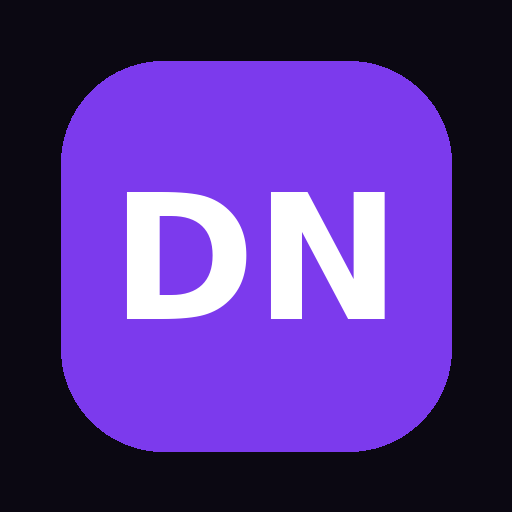
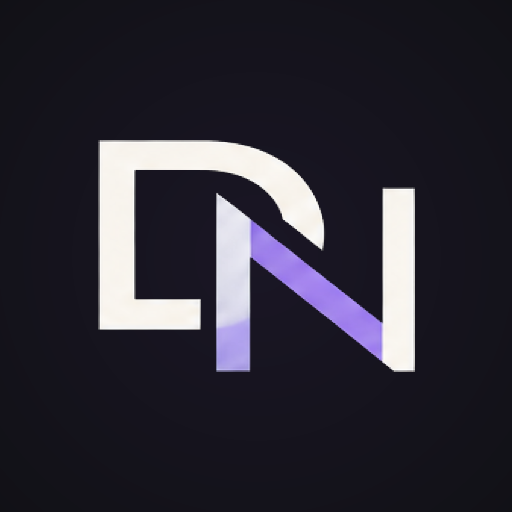
Refactor code structure for improved readability and maintainability

diff --git a/apps/user-web/src/pages/clubs.jsx b/apps/user-web/src/pages/clubs.jsx
@@ -14,7 +14,7 @@ export function ClubDetails() {
   return (
     <div className="pb-24">
       <Async q={q}>{(c) => (<>
-        <div className="relative"><Img src={c.images[0]} name={c.name} className="h-56 w-full" />
+        <div className="relative"><Img src={c.images?.[0]} name={c.name} className="h-56 w-full" />
           <button onClick={() => nav(-1)} className="absolute left-3 top-3 rounded-full bg-black/50 px-3 py-1 text-white">‹</button></div>
         <div className="space-y-4 p-4">
           <div className="flex items-start justify-between"><div><h1 className="text-xl font-bold">{c.name}</h1><p className="text-xs text-muted">{c.address}</p></div>
@@ -28,10 +28,10 @@ export function ClubDetails() {
           {c.about && <div><h3 className="mb-1 text-sm font-semibold">About</h3><p className="text-sm text-muted">{c.about}</p></div>}
           <div className="flex justify-between text-sm"><span className="text-muted">Music</span><span>{c.music.join(' · ') || '—'}</span></div>
           <div className="flex justify-between text-sm"><span className="text-muted">Dress code</span><span>{c.dressCode || '—'}</span></div>
-          {c.events.length > 0 && <div><h3 className="mb-2 text-sm font-semibold">Upcoming events</h3><div className="space-y-2">{c.events.slice(0, 3).map((e) => (
+          {c.events?.length > 0 && <div><h3 className="mb-2 text-sm font-semibold">Upcoming events</h3><div className="space-y-2">{c.events.slice(0, 3).map((e) => (
             <Card key={e.id} className="flex justify-between p-3 text-sm"><div><p className="font-medium">{e.title}</p><p className="text-xs text-muted">{e.djName}</p></div><p className="text-xs text-muted">{fmtDate(e.date)}<br />{e.startTime}</p></Card>))}</div></div>}
         </div>
-        <div className="fixed inset-x-0 bottom-0 mx-auto max-w-md border-t border-line bg-bg p-4"><Button onClick={() => nav(`/clubs/${c.id}/events`)}>View Offers</Button></div>
+        <div className="glass-bar fixed inset-x-0 bottom-0 z-20 mx-auto w-full max-w-md border-t border-line p-4 pb-[calc(1rem+env(safe-area-inset-bottom))]"><Button onClick={() => nav(`/clubs/${c.id}/offers`)}>Compare Offers</Button></div>
       </>)}</Async>
     </div>
   );
@@ -69,20 +69,23 @@ export function ClubOffers() {
   };
   return (
     <div>
-      <Header back title="Offers at this club" sub={sp.get('date') ? `${fmtDate(sp.get('date'))} · Expand offers to compare` : 'Expand offers to compare'} />
+      <Header back title="Offers at this club" sub={sp.get('date') ? `${fmtDate(sp.get('date'))} · Compare promoter offers` : 'Compare promoter offers by date'} />
       <div className="p-4"><Select label="Sort" value={sort} onChange={(e) => setSort(e.target.value)} options={[{ value: 'recommended', label: 'Recommended' }, { value: 'price', label: 'Price: low to high' }]} /></div>
-      <Async q={q} empty={<EmptyState title="No offers available" text="Promoters haven't listed offers for this event yet." />}>{(list) => <div className="space-y-3 px-4 pb-6">{list.map((o) => {
-        const open = expanded.includes(o.id);
-        return <Card key={o.id} className="overflow-hidden p-0"><button type="button" aria-expanded={open} onClick={() => setExpanded((old) => open ? old.filter((x) => x !== o.id) : [...old, o.id])} className="flex w-full items-center gap-3 p-4 text-left">
-          <Img src={o.club.images?.[0]} name={o.club.name} className="h-14 w-14 shrink-0 rounded-xl" />
-          <div className="min-w-0 flex-1"><p className="text-xs text-muted">{o.promoter.brand}</p><p className="font-semibold">{o.offerType} · {o.entryTypes?.length ? o.entryTypes.join(' & ') : o.entryType}</p>{o.event?.title && <p className="truncate text-xs text-muted">{o.event.title}{o.event.startTime ? ` · ${o.event.startTime}` : ''}</p>}<p className="text-xs text-muted">{o.entryFrom || '9:00 PM'}–{o.entryBefore}{o.limitedSlots ? ' · Limited slots' : ''}</p></div>
-          <div className="text-right"><p className="font-bold">{formatINR(o.price)}</p><p className="text-xs text-brand">{open ? 'Hide' : 'Details'}</p></div>
-        </button>{open && <div className="space-y-3 border-t border-line p-4">
-          {o.inclusions?.length > 0 && <div><p className="mb-1 text-xs font-semibold text-muted">Included perks</p><ul className="space-y-1 text-sm">{o.inclusions.map((perk) => <li key={perk} className="flex gap-2"><Check size={14} className="mt-0.5 shrink-0 text-ok" />{perk}</li>)}</ul></div>}
-          {o.terms && <div><p className="mb-1 text-xs font-semibold text-muted">Terms</p><p className="text-sm text-muted">{o.terms}</p></div>}
-          <Button onClick={() => book(o)}>Get Guestlist Entry</Button>
-        </div>}</Card>;
-      })}</div>}</Async>
+      <Async q={q} empty={<EmptyState title="No offers available" text="Promoters haven't listed offers for this event yet." />}>{(list) => {
+        const groups = [...list.reduce((map, offer) => { const date = offer.date.slice(0, 10); const group = map.get(date) || []; group.push(offer); map.set(date, group); return map; }, new Map()).entries()];
+        return <div className="space-y-6 px-4 pb-6">{groups.map(([date, offers]) => <section key={date} className="space-y-3"><h2 className="px-1 text-sm font-semibold text-muted">{fmtDate(date)} <span className="font-normal">· {offers.length} offer{offers.length === 1 ? '' : 's'}</span></h2>{offers.map((o) => {
+          const open = expanded.includes(o.id);
+          return <Card key={o.id} className="overflow-hidden p-0"><button type="button" aria-expanded={open} onClick={() => setExpanded((old) => open ? old.filter((x) => x !== o.id) : [...old, o.id])} className="flex w-full items-center gap-3 p-4 text-left">
+            <Img src={o.club.images?.[0]} name={o.club.name} className="h-14 w-14 shrink-0 rounded-xl" />
+            <div className="min-w-0 flex-1"><p className="text-xs text-muted">{o.promoter.brand}</p><p className="font-semibold">{o.offerType} · {o.entryTypes?.length ? o.entryTypes.join(' & ') : o.entryType}</p>{o.event?.title && <p className="truncate text-xs text-muted">{o.event.title}{o.event.startTime ? ` · ${o.event.startTime}` : ''}</p>}<p className="text-xs text-muted">{o.entryFrom || '9:00 PM'}–{o.entryBefore}{o.limitedSlots ? ' · Limited slots' : ''}</p></div>
+            <div className="text-right"><p className="font-bold">{formatINR(o.price)}</p><p className="text-xs text-brand">{open ? 'Hide' : 'Details'}</p></div>
+          </button>{open && <div className="space-y-3 border-t border-line p-4">
+            {o.inclusions?.length > 0 && <div><p className="mb-1 text-xs font-semibold text-muted">Included perks</p><ul className="space-y-1 text-sm">{o.inclusions.map((perk) => <li key={perk} className="flex gap-2"><Check size={14} className="mt-0.5 shrink-0 text-ok" />{perk}</li>)}</ul></div>}
+            {o.terms && <div><p className="mb-1 text-xs font-semibold text-muted">Terms</p><p className="text-sm text-muted">{o.terms}</p></div>}
+            <Button onClick={() => book(o)}>Get Guestlist Entry</Button>
+          </div>}</Card>;
+        })}</section>)}</div>;
+      }}</Async>
     </div>
   );
 }
@@ -122,7 +125,7 @@ export function OfferDetails() {
           <p className="font-semibold text-brand">{o.offerType} · {o.entryTypes?.length ? o.entryTypes.join(' & ') : o.entryType}</p><p className="mt-1 text-xs text-muted">{fmtDate(o.date)} · Entry {o.entryFrom || '9:00 PM'}–{o.entryBefore}{o.limitedSlots ? ' · Limited slots' : ''}</p></Card>
         {o.inclusions.length > 0 && <div><h3 className="mb-2 text-sm font-semibold">What's Included</h3><ul className="space-y-1.5 text-sm text-muted">{o.inclusions.map((x) => <li key={x} className="flex gap-2"><Check size={14} className="mt-0.5 text-ok" />{x}</li>)}</ul></div>}
         {o.terms && <div><h3 className="mb-2 text-sm font-semibold">Terms & Conditions</h3><p className="text-xs text-muted">{o.terms}</p></div>}
-        <div className="fixed inset-x-0 bottom-0 mx-auto max-w-md border-t border-line bg-bg p-4"><Button onClick={() => go(o)}>Get Guestlist Entry</Button></div>
+      <div className="glass-bar safe-bottom fixed inset-x-0 bottom-0 z-20 mx-auto w-full max-w-md border-t border-line p-4"><Button onClick={() => go(o)}>Get Guestlist Entry</Button></div>
       </div>)}</Async>
     </div>
   );

diff --git a/packages/ui/src/components.jsx b/packages/ui/src/components.jsx
@@ -1,6 +1,7 @@
 import { useState } from 'react';
 import { NavLink, useNavigate } from 'react-router-dom';
 import { Sun, Moon, ChevronLeft, Loader2, WifiOff, Inbox, X } from 'lucide-react';
+import brandWordmark from './assets/dusknyt-wordmark.png';
 
 export const cx = (...a) => a.filter(Boolean).join(' ');
 
@@ -22,12 +23,12 @@ export function ThemeToggle({ className }) {
 
 /* ---------- layout ---------- */
 export const Page = ({ children, className, wide, nav }) => (
-  <div className={cx('mx-auto min-h-screen', wide ? 'max-w-6xl' : 'max-w-md', nav && 'pb-24', className)}>{children}</div>
+  <div className={cx('app-shell mx-auto min-h-screen w-full', wide ? 'max-w-6xl' : 'max-w-md', nav && 'page-with-nav', className)}>{children}</div>
 );
 export function Header({ title, sub, back, right }) {
   const nav = useNavigate();
   return (
-    <div className="sticky top-0 z-20 flex items-center gap-3 border-b border-line bg-bg/90 px-4 py-3 backdrop-blur">
+    <div className="glass-bar sticky top-0 z-20 flex items-center gap-3 border-b border-line px-4 py-3">
       {back && <button onClick={() => nav(-1)} aria-label="Back"><ChevronLeft /></button>}
       <div className="min-w-0 flex-1">
         <h1 className="truncate text-lg font-semibold">{title}</h1>
@@ -39,10 +40,10 @@ export function Header({ title, sub, back, right }) {
 }
 export function BottomNav({ items }) {
   return (
-    <nav className="fixed inset-x-0 bottom-0 z-30 mx-auto flex max-w-md justify-around border-t border-line bg-bg/95 py-2 backdrop-blur">
+    <nav className="glass-bar safe-bottom fixed inset-x-0 bottom-0 z-30 mx-auto flex w-full max-w-md justify-around border-t border-line px-1 pt-2">
       {items.map(({ to, label, icon: Icon, end, badge }) => (
-        <NavLink key={to} to={to} end={end} className={({ isActive }) => cx('relative flex flex-col items-center gap-0.5 px-3 text-[11px]', isActive ? 'text-brand' : 'text-muted')}>
-          <Icon size={20} />{label}
+        <NavLink key={to} to={to} end={end} className={({ isActive }) => cx('relative flex min-w-0 flex-1 flex-col items-center gap-1 px-1 py-1 text-[10px] leading-tight sm:text-[11px]', isActive ? 'text-brand' : 'text-muted')}>
+          <Icon size={19} strokeWidth={2} />{label}
           {badge > 0 && <span className="absolute -right-1 -top-1 rounded-full bg-bad px-1 text-[9px] text-white">{badge}</span>}
         </NavLink>
       ))}
@@ -50,7 +51,8 @@ export function BottomNav({ items }) {
   );
 }
 export function Logo({ className }) {
-  return <span className={cx('font-black tracking-[0.25em]', className)}>DUSKNYT</span>;
+  const width = className?.includes('text-4xl') ? 'w-56' : className?.includes('text-3xl') ? 'w-48' : className?.includes('text-2xl') ? 'w-40' : 'w-36';
+  return <img src={brandWordmark} alt="DUSKNYT" className={cx('inline-block h-auto max-w-full object-contain', width, className)} />;
 }
 
 /* ---------- form controls ---------- */
@@ -96,7 +98,7 @@ export const Toggle = ({ on, onChange }) => (
 );
 
 /* ---------- display ---------- */
-export const Card = ({ className, ...p }) => <div {...p} className={cx('rounded-2xl border border-line bg-card p-4', className)} />;
+export const Card = ({ className, ...p }) => <div {...p} className={cx('glass-panel rounded-2xl border border-line bg-card p-4', className)} />;
 const tone = {
   CONFIRMED: 'bg-ok/15 text-ok', ACTIVE: 'bg-ok/15 text-ok', PAID: 'bg-ok/15 text-ok',
   PENDING: 'bg-warn/15 text-warn', OPEN: 'bg-warn/15 text-warn', IN_PROGRESS: 'bg-brand/15 text-brand', UPCOMING: 'bg-brand/15 text-brand',

diff --git a/apps/user-web/src/pages/account.jsx b/apps/user-web/src/pages/account.jsx
@@ -24,16 +24,17 @@ export function Saved() {
 }
 
 export function MyGuestlists() {
-  const [tab, setTab] = useState('upcoming');
-  const q = useQuery({ queryKey: ['guestlists', tab], queryFn: () => http.get('/guestlist', { status: tab }) });
+  const { token } = useAuth(); const nav = useNavigate(); const [tab, setTab] = useState('upcoming');
+  const q = useQuery({ queryKey: ['guestlists', tab], queryFn: () => http.get('/guestlist', { status: tab }), enabled: !!token });
+  if (!token) return <><Header title="My Bookings" /><LoginPrompt message="Log in to see your current guestlist requests and entry passes." onLogin={() => nav('/login', { state: { from: '/guestlists' } })} /></>;
   return (
     <div>
-      <Header back title="My Guestlists" />
-      <div className="p-4"><Tabs tabs={[{ value: 'upcoming', label: 'Upcoming' }, { value: 'pending', label: 'Pending' }, { value: 'past', label: 'Past' }]} value={tab} onChange={setTab} /></div>
+      <Header title="My Bookings" sub="Requests, confirmations and entry passes" />
+      <div className="p-4"><Tabs tabs={[{ value: 'upcoming', label: 'Current' }, { value: 'pending', label: 'Pending' }, { value: 'past', label: 'Past' }]} value={tab} onChange={setTab} /></div>
       <Async q={q} empty={<EmptyState title="Nothing here" text="Your guestlist requests will show up here." />}>{(list) => (
         <div className="space-y-3 px-4">{list.map((r) => (
           <Link key={r.id} to={`/requests/${r.id}`} className="flex items-center justify-between rounded-2xl border border-line bg-card p-4">
-            <div><p className="font-semibold">{r.offer.club.name}</p><p className="text-xs text-muted">{fmtDate(r.offer.date)} · {r.offer.entryFrom || '9:00 PM'}–{r.offer.entryBefore}</p><p className="text-xs text-muted">{r.offer.promoter.brand}</p></div><Badge s={r.status} /></Link>))}</div>)}</Async>
+            <div className="min-w-0 flex-1"><p className="truncate font-semibold">{r.offer.event?.title || r.offer.club.name}</p><p className="text-xs text-muted">{r.offer.club.name} · {fmtDate(r.offer.date)}</p><p className="text-xs text-muted">{r.guestCount} guests · {r.offer.entryFrom || '9:00 PM'}–{r.offer.entryBefore}</p><p className="text-xs text-muted">{r.offer.promoter.brand}</p></div><Badge s={r.status} /></Link>))}</div>)}</Async>
     </div>
   );
 }
@@ -60,8 +61,8 @@ const MenuItem = ({ to, icon: Icon, label, onClick }) => {
   return <C to={to} onClick={onClick} className="flex w-full items-center gap-3 border-b border-line px-4 py-3.5 text-sm"><Icon size={18} className="text-muted" /><span className="flex-1 text-left">{label}</span><ChevronRight size={16} className="text-muted" /></C>;
 };
 
-function LoginPrompt({ onLogin }) {
-  return <div className="p-5"><Card className="text-center"><h2 className="font-semibold">Please log in</h2><p className="mt-2 text-sm text-muted">Log in to view your account and saved items.</p><Button className="mt-4" onClick={onLogin}>Log in</Button></Card></div>;
+function LoginPrompt({ onLogin, message = 'Log in to view your account and saved items.' }) {
+  return <div className="p-5"><Card className="text-center"><h2 className="font-semibold">Please log in</h2><p className="mt-2 text-sm text-muted">{message}</p><Button className="mt-4" onClick={onLogin}>Log in</Button></Card></div>;
 }
 
 export function Profile() {

diff --git a/packages/ui/src/styles.css b/packages/ui/src/styles.css
@@ -2,8 +2,18 @@
 @tailwind components;
 @tailwind utilities;
 
-:root { --bg: 247 246 252; --card: 255 255 255; --fg: 20 16 28; --muted: 108 102 128; --line: 226 222 238; }
-.dark { --bg: 11 8 18; --card: 24 18 36; --fg: 244 241 250; --muted: 150 142 170; --line: 44 36 64; }
-body { @apply bg-bg font-sans text-fg antialiased; }
+:root { --bg: 245 245 240; --card: 250 249 246; --fg: 17 17 22; --muted: 106 106 116; --line: 222 220 226; color-scheme: light; }
+.dark { --bg: 17 17 22; --card: 28 28 36; --fg: 245 245 240; --muted: 169 167 179; --line: 63 62 73; color-scheme: dark; }
+html, body, #root { width: 100%; min-height: 100%; overflow-x: clip; }
+body { @apply bg-bg font-sans text-fg antialiased; min-height: 100dvh; background-image: radial-gradient(ellipse at 15% -5%, rgb(183 156 255 / .13), transparent 40%), radial-gradient(ellipse at 100% 50%, rgb(183 156 255 / .06), transparent 38%); background-attachment: fixed; overscroll-behavior-y: contain; }
 input, select, textarea, button { font: inherit; }
 .no-scrollbar::-webkit-scrollbar { display: none; }
+img, svg, video { max-width: 100%; }
+.app-shell { overflow-x: clip; min-height: 100dvh; }
+.page-with-nav { padding-bottom: calc(5.25rem + env(safe-area-inset-bottom)); }
+.safe-bottom { padding-bottom: calc(.55rem + env(safe-area-inset-bottom)); }
+.glass-panel { background: rgb(var(--card) / .62); border-color: rgb(var(--line) / .68); -webkit-backdrop-filter: blur(20px) saturate(150%); backdrop-filter: blur(20px) saturate(150%); box-shadow: 0 10px 32px rgb(0 0 0 / .13), inset 0 1px 0 rgb(255 255 255 / .07); }
+.glass-bar { background: rgb(var(--bg) / .72); -webkit-backdrop-filter: blur(22px) saturate(155%); backdrop-filter: blur(22px) saturate(155%); border-color: rgb(var(--line) / .65); }
+.dark .glass-panel { background: rgb(29 28 37 / .67); }
+.dark .glass-bar { background: rgb(17 17 22 / .74); }
+@media (prefers-reduced-motion: no-preference) { button, a { transition: color .18s ease, background-color .18s ease, border-color .18s ease, transform .18s ease; } }

diff --git a/apps/user-web/src/App.jsx b/apps/user-web/src/App.jsx
@@ -1,5 +1,5 @@
 import { Routes, Route, Outlet, Navigate } from 'react-router-dom';
-import { Home as HomeIcon, Search, Ticket, Bookmark, User } from 'lucide-react';
+import { Home as HomeIcon, Search, Ticket, ClipboardList, User } from 'lucide-react';
 import { Page, BottomNav, RequireAuth } from '@dusknyt/ui';
 import { Splash, CitySelect } from './pages/onboarding';
 import { Home, Explore, SearchResults, Filters } from './pages/discovery';
@@ -10,7 +10,7 @@ import { Saved, MyGuestlists, Notifications, Profile, EditProfile, Settings, Hel
 
 const nav = [
   { to: '/', label: 'Home', icon: HomeIcon, end: true }, { to: '/explore', label: 'Explore', icon: Search },
-  { to: '/offers', label: 'Offers', icon: Ticket }, { to: '/saved', label: 'Saved', icon: Bookmark }, { to: '/profile', label: 'Profile', icon: User },
+  { to: '/offers', label: 'Offers', icon: Ticket }, { to: '/guestlists', label: 'My Bookings', icon: ClipboardList }, { to: '/profile', label: 'Profile', icon: User },
 ];
 const Main = () => <Page nav><Outlet /><BottomNav items={nav} /></Page>;
 const Plain = () => <Page><Outlet /></Page>;
@@ -22,6 +22,7 @@ export default function App() {
         <Route index element={<Home />} />
         <Route path="explore" element={<Explore />} />
         <Route path="offers" element={<AllOffers />} />
+        <Route path="guestlists" element={<MyGuestlists />} />
         <Route path="saved" element={<Saved />} />
         <Route path="profile" element={<Profile />} />
       </Route>
@@ -43,7 +44,6 @@ export default function App() {
           <Route path="book/review" element={<Review />} />
           <Route path="book/submitted/:id" element={<Submitted />} />
           <Route path="requests/:id" element={<RequestStatus />} />
-          <Route path="guestlists" element={<MyGuestlists />} />
           <Route path="notifications" element={<Notifications />} />
           <Route path="profile/edit" element={<EditProfile />} />
           <Route path="settings" element={<Settings />} />

diff --git a/apps/user-web/src/pages/booking.jsx b/apps/user-web/src/pages/booking.jsx
@@ -32,7 +32,7 @@ export function GuestDetails() {
         {Array.from({ length: count - 1 }, (_, i) => <Input key={i} label={`Guest ${i + 2} name`} value={names[i]} onChange={(e) => setNames(names.map((n, j) => (j === i ? e.target.value : n)))} />)}
         <Textarea label="Special note (optional)" value={draft.note} onChange={(e) => setDraft({ note: e.target.value })} />
       </div>
-      <div className="fixed inset-x-0 bottom-0 mx-auto max-w-md border-t border-line bg-bg p-4"><Button disabled={!valid} onClick={() => { setDraft({ guests }); nav('/book/review'); }}>Continue</Button></div>
+      <div className="glass-bar safe-bottom fixed inset-x-0 bottom-0 z-20 mx-auto w-full max-w-md border-t border-line p-4"><Button disabled={!valid} onClick={() => { setDraft({ guests }); nav('/book/review'); }}>Continue</Button></div>
     </div>
   );
 }
@@ -56,7 +56,7 @@ export function Review() {
         <label className="flex items-start gap-2 text-xs text-muted"><input type="checkbox" checked={ok} onChange={(e) => setOk(e.target.checked)} className="mt-0.5 accent-brand" />I agree to the terms and conditions</label>
         {err && <p className="text-sm text-bad">{err}</p>}
       </div>
-      <div className="fixed inset-x-0 bottom-0 mx-auto max-w-md border-t border-line bg-bg p-4"><Button loading={send.isPending} disabled={!ok} onClick={() => { setErr(''); send.mutate(); }}>Confirm & Send Request</Button></div>
+      <div className="glass-bar safe-bottom fixed inset-x-0 bottom-0 z-20 mx-auto w-full max-w-md border-t border-line p-4"><Button loading={send.isPending} disabled={!ok} onClick={() => { setErr(''); send.mutate(); }}>Confirm & Send Request</Button></div>
     </div>
   );
 }

diff --git a/apps/api/src/routes/user.routes.js b/apps/api/src/routes/user.routes.js
@@ -110,7 +110,7 @@ r.put('/me', ...auth, wrap(async (req, res) => {
 }));
 
 /* ---------- guestlist requests ---------- */
-const reqInclude = { offer: { include: { club: { select: { id: true, name: true, area: true, images: true } }, promoter: { select: { brand: true } } } } };
+const reqInclude = { offer: { include: { club: { select: { id: true, name: true, area: true, images: true } }, promoter: { select: { brand: true } }, event: { select: { title: true, startTime: true } } } } };
 r.post('/guestlist', ...auth, wrap(async (req, res) => {
   if (!req.user.name) throw new ApiError(400, 'Complete your profile first');
   const d = parse(z.object({

diff --git a/apps/user-web/vite.config.js b/apps/user-web/vite.config.js
@@ -10,7 +10,7 @@ export default defineConfig({
       registerType: 'autoUpdate',
       manifest: {
         name: 'DUSKNYT', short_name: 'DUSKNYT', start_url: '/splash', scope: '/', display: 'standalone',
-        background_color: '#0b0812', theme_color: '#0b0812',
+        background_color: '#111116', theme_color: '#111116',
         icons: [
           { src: '/icon-192.png', sizes: '192x192', type: 'image/png' },
           { src: '/icon-512.png', sizes: '512x512', type: 'image/png' },

diff --git a/apps/user-web/index.html b/apps/user-web/index.html
@@ -3,7 +3,7 @@
   <head>
     <meta charset="UTF-8" />
     <meta name="viewport" content="width=device-width, initial-scale=1, viewport-fit=cover" />
-    <meta name="theme-color" content="#0b0812" />
+    <meta name="theme-color" content="#111116" />
     <link rel="icon" href="/icon-192.png" />
     <link rel="apple-touch-icon" href="/icon-192.png" />
     <link rel="preconnect" href="https://fonts.googleapis.com" />
